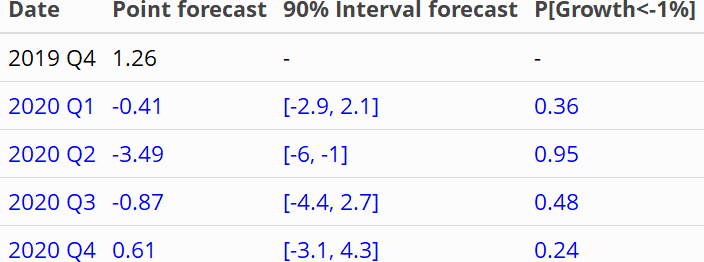
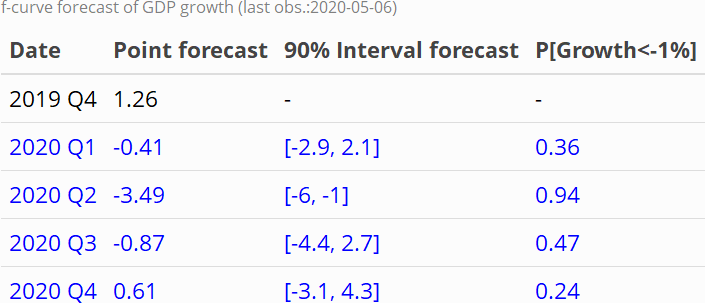
test

diff --git a/README.md b/README.md
@@ -1,5 +1,5 @@
 # f-curve
-## A daily fever curve for the Swiss economy: Stable version*
+## A daily fever curve for the Swiss economy: Stable version
 
 **Abstract:**  Because macroeconomic data is published with a substantial delay assessing the health of the economy during the rapidly evolving Covid-19 crisis is challenging. We develop a fever curve for the Swiss economy using publicly available daily financial market and news data. The indicator can usually be computed with a delay of one working day. Moreover, it is highly correlated with macroeconomic and survey indicators of Swiss real economic activity; therefore, it provides timely and reliable warning signals if health of the economy takes a turn for the worse.
 
@@ -11,7 +11,7 @@
 ![](./Results/MainGDPShort.png)
 ![](./Results/DecompositionShort.png)
 
-## Current GDP forecast:
+## Current GDP growth forecast:
 ![](./Results/Fcst_Table.png)
 
 ## Historical correlation with GDP growth
